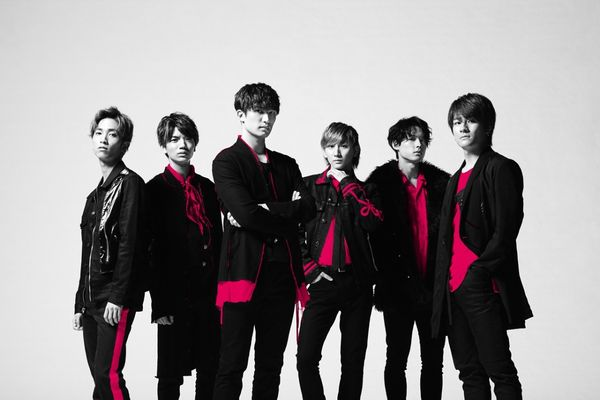
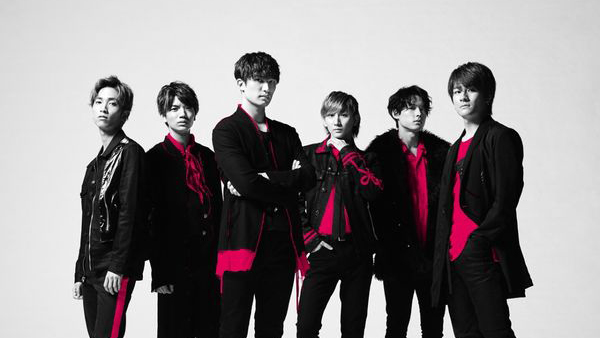
Update image

diff --git a/lib/main.dart b/lib/main.dart
@@ -5,73 +5,32 @@ void main() {
 }
 
 class MyApp extends StatelessWidget {
-  // This widget is the root of your application.
   @override
   Widget build(BuildContext context) {
     return MaterialApp(
-      title: 'Johnny\'s Entertainment',
-      theme: ThemeData(
-        // This is the theme of your application.
-        //
-        // Try running your application with "flutter run". You'll see theb
-        // application has a blue toolbar. Then, without quitting the app, try
-        // changing the primarySwatch below to Colors.green and then invoke
-        // "hot reload" (press "r" in the console where you ran "flutter run",
-        // or simply save your changes to "hot reload" in a Flutter IDE).
-        // Notice that the counter didn't reset back to zero; the application
-        // is not restarted.
-        primarySwatch: Colors.purple,
-        // This makes the visual density adapt to the platform that you run
-        // the app on. For desktop platforms, the controls will be smaller and
-        // closer together (more dense) than on mobile platforms.
-        visualDensity: VisualDensity.adaptivePlatformDensity,
-      ),
-      home: MyHomePage(title: 'Johnny\'s Entertainment'),
+      home: HomeScreen(),
     );
   }
 }
 
-class MyHomePage extends StatefulWidget {
-  MyHomePage({
-    Key key,
-    this.title
+class HomeScreen extends StatefulWidget {
+  HomeScreen({
+    Key key
   }): super(key: key);
 
-  // This widget is the home page of your application. It is stateful, meaning
-  // that it has a State object (defined below) that contains fields that affect
-  // how it looks.
-
-  // This class is the configuration for the state. It holds the values (in this
-  // case the title) provided by the parent (in this case the App widget) and
-  // used by the build method of the State. Fields in a Widget subclass are
-  // always marked "final".
-
-  final String title;
-
-  @override
-  _MyHomePageState createState() => _MyHomePageState();
+  _HomeScreenState createState() => _HomeScreenState();
 }
 
-class _MyHomePageState extends State < MyHomePage > {
-
+class _HomeScreenState extends State < HomeScreen > {
   @override
   Widget build(BuildContext context) {
-    // This method is rerun every time setState is called, for instance as done
-    // by the _incrementCounter method above.
-    //
-    // The Flutter framework has been optimized to make rerunning build methods
-    // fast, so that you can just rebuild anything that needs updating rather
-    // than having to individually change instances of widgets.
     return Scaffold(
       appBar: AppBar(
         // Here we take the value from the MyHomePage object that was created by
         // the App.build method, and use it to set our appbar title.
-        title: Text(widget.title),
+        title: Text("Johnny's Entertainment"),
       ),
       body: Center(
-
-        // Center is a layout widget. It takes a single child and positions it
-        // in the middle of the parent.
         child: GridView.count(
           primary: false,
           padding: const EdgeInsets.all(20),
@@ -79,13 +38,16 @@ class _MyHomePageState extends State < MyHomePage > {
             mainAxisSpacing: 10,
             crossAxisCount: 2,
             children: < Widget > [
-              GestureDetector(
-                child: Image(image: AssetImage("images/arashi.png")),
-                onTap: () {
-                  Navigator.push(context, MaterialPageRoute(
-                    builder: (context) => DetailScreen("images/arashi.png"),
-                  ));
-                },
+              AspectRatio(
+                aspectRatio: 3 / 3,
+                child: GestureDetector(
+                  child: Image(image: AssetImage("images/arashi.jpg")),
+                  onTap: () {
+                    Navigator.push(context, MaterialPageRoute(
+                      builder: (context) => DetailScreen("images/arashi.jpg"),
+                    ));
+                  },
+                ),
               ),
               GestureDetector(
                 child: Image(image: AssetImage("images/kinpuri.jpg")),
@@ -120,25 +82,23 @@ class _MyHomePageState extends State < MyHomePage > {
                 },
               ),
               GestureDetector(
-                child: Image(image: AssetImage("images/snowman.png")),
+                child: Image(image: AssetImage("images/snowman.jpg")),
                 onTap: () {
                   Navigator.push(context, MaterialPageRoute(
-                    builder: (context) => DetailScreen("images/snowman.png"),
+                    builder: (context) => DetailScreen("images/snowman.jpg"),
                   ));
                 },
               ),
             ],
         ),
-
-      ),
+      )
     );
   }
 }
 
-
 class DetailScreen extends StatelessWidget {
-  String something;
-  DetailScreen(this.something);
+  String url;
+  DetailScreen(this.url);
   @override
   Widget build(BuildContext context) {
     return Scaffold(
@@ -146,7 +106,7 @@ class DetailScreen extends StatelessWidget {
         child: Center(
           child: Hero(
             tag: 'imageHero',
-            child: Image(image: AssetImage(this.something))
+            child: Image(image: AssetImage(this.url))
           ),
         ),
         onTap: () {
